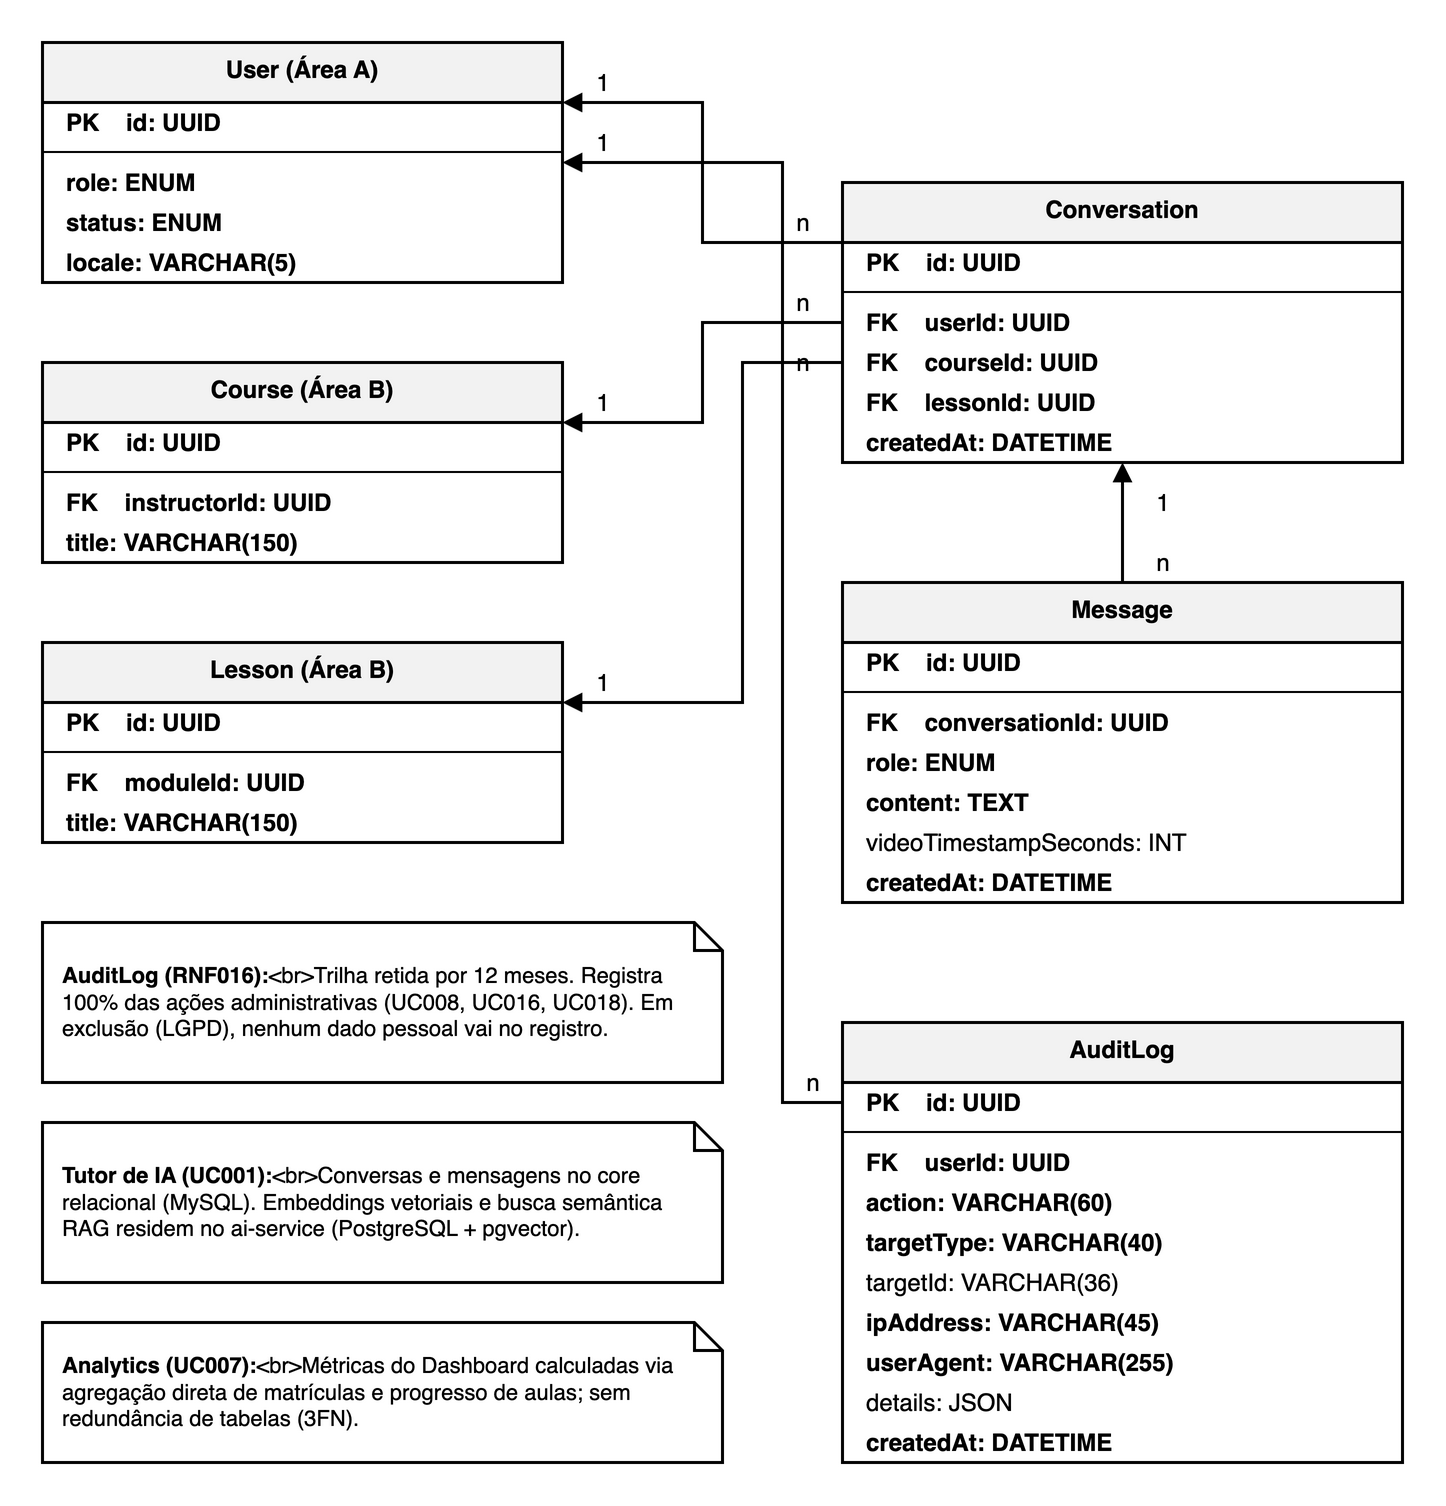
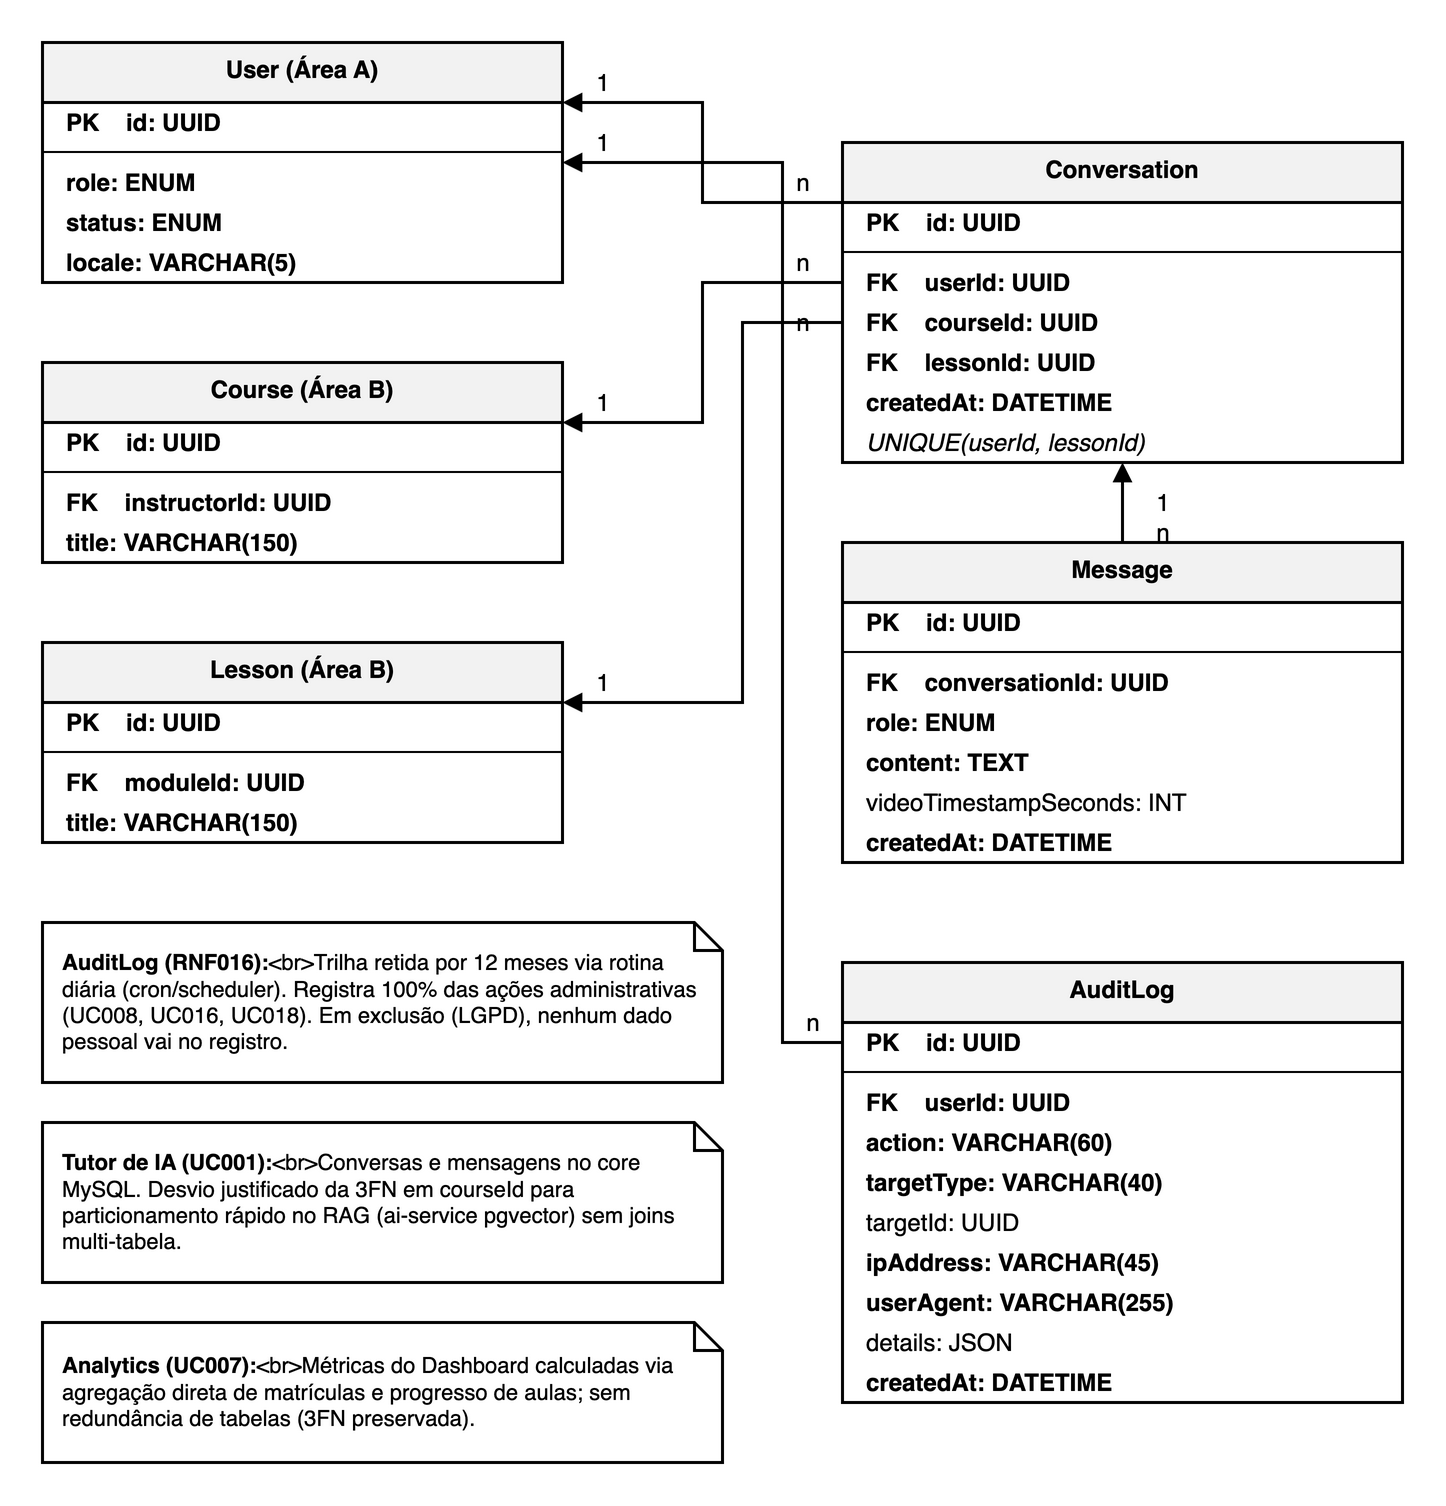
fix(modelo-dados): justify 3FN deviation, add UNIQUE and enum mappings for Area D
Address review findings in item 12 data model:
- Justify the deliberate 3FN deviation of Conversation.courseId for RAG course-partitioning without multi-table joins.
- Add UNIQUE(userId, lessonId) constraint on Conversation.
- Align AuditLog.targetId to UUID across model, diagram and dictionary.
- Document scheduled daily cron purge for 12-month AuditLog retention (RNF016).
- Document English persisted enum values and their pt-BR interface mappings.
- Re-export diagram PNG conforming to ADR-0013.

Refs #94, #122

diff --git a/especificacao/12-modelo-de-dados/area-d.md b/especificacao/12-modelo-de-dados/area-d.md
@@ -9,9 +9,13 @@ Tabelas que sustentam a interação do Aluno com o assistente pedagógico no con
 Decisões do modelo:
 
 - `Conversation` e `Message` estruturam a persistência relacional do histórico do Tutor de IA no banco primário MySQL (ADR-0007). Cada conversa é estritamente vinculada a um Aluno (`userId`), a um curso (`courseId`) e à aula assistida (`lessonId`). A persistência vetorial de trechos e embeddings gerados uma única vez (RNF004) reside no microsserviço físico `ai-service` em banco PostgreSQL 16 com extensão `pgvector` (tabela de chunks particionada por `course_id`), desacoplando o pipeline RAG e o streaming SSE (RNF003) do core relacional.
-- `AuditLog` implementa o registro auditável de 100% das ações administrativas do Administrador e eventos de controle de acesso (RNF016), abrangendo bloqueio e desbloqueio de usuários (UC008), alteração de perfil de acesso (UC008 A4), tentativas de acesso indevido a áreas protegidas (UC016 E2) e exclusão/anonimização de contas (UC018). Os registros possuem política de retenção mínima de 12 meses (RNF016).
-- Normalização e integridade: as tabelas `Conversation` e `Message` estão normalizadas em 3FN, sem dependências transitivas. Na tabela `AuditLog`, o campo `details` utiliza o tipo JSON para armazenar metadados variáveis do evento (como perfil anterior e novo, ou motivo do bloqueio), o que constitui uma exceção deliberada à 1FN justificada pela natureza heterogênea dos eventos de auditoria (análoga a `InstructorProfile.socialLinks` na Área A).
-- Privacidade e LGPD na exclusão (UC018 R-4): na exclusão de conta de usuário, os dados pessoais na tabela `User` são limpos ou anonimizados (`anonymizedAt` preenchido), e o evento registrado em `AuditLog` referencia o identificador (`targetId`) sem manter dados pessoais sensíveis (como nome, CPF ou e-mail) no registro de auditoria ou no campo `details`.
+- `AuditLog` implementa o registro auditável de 100% das ações administrativas do Administrador e eventos de controle de acesso (RNF016), abrangendo bloqueio e desbloqueio de usuários (UC008), alteração de perfil de acesso (UC008 A4), tentativas de acesso indevido a áreas protegidas (UC016 E2) e exclusão/anonimização de contas (UC018). Os registros possuem política de retenção mínima de 12 meses (RNF016). A aplicação operacional da retenção é executada por uma rotina agendada diária (job/scheduler Laravel `audit:purge-expired`, executado via cron à meia-noite), que remove os registros cujo timestamp `createdAt` seja anterior a 12 meses (`createdAt < NOW() - INTERVAL 12 MONTH`), mantendo a integridade histórica sem comprometer o desempenho do banco.
+- Normalização e integridade: a tabela `Message` está normalizada em 3FN. A tabela `Conversation` possui a restrição de unicidade `UNIQUE(userId, lessonId)`, garantindo que cada aluno possua exatamente uma conversa aberta por aula assistida no contexto do Tutor de IA (novas interações são acrescentadas como mensagens dessa mesma conversa). A presença de `courseId` em `Conversation` constitui um desvio deliberado e justificado da 3FN: embora `courseId` derive transitivamente de `lessonId` (`Lesson -> Module -> Course`), sua redundância controlada viabiliza a partição física imediata e a filtragem relacional estrita no pipeline RAG do `ai-service` (`where('course_id', $courseId)`, RNF004 e TDD seção 5.1), isolando categoricamente o conteúdo de diferentes cursos sem sobrecarregar o banco com junções de múltiplas tabelas transacionais a cada mensagem enviada. Na tabela `AuditLog`, o campo `details` utiliza o tipo JSON para armazenar metadados variáveis do evento (como perfil anterior e novo, ou motivo do bloqueio), o que constitui uma exceção deliberada à 1FN justificada pela natureza heterogênea dos eventos de auditoria (análoga a `InstructorProfile.socialLinks` na Área A).
+- Privacidade e LGPD na exclusão (UC018 R-4): na exclusão de conta de usuário, os dados pessoais na tabela `User` são limpos ou anonimizados (`anonymizedAt` preenchido), e o evento registrado em `AuditLog` referencia o identificador (`targetId` como UUID) sem manter dados pessoais sensíveis (como nome, CPF ou e-mail) no registro de auditoria ou no campo `details`.
+- Mapeamento de valores enumerados (persistidos em inglês no banco de dados, com mapeamento para os rótulos de interface em pt-BR):
+  - `Message.role`: `user` (Aluno) e `assistant` (Tutor de IA).
+  - `AuditAction`: `USER_BLOCK` (Bloqueio de usuário), `USER_UNBLOCK` (Desbloqueio de usuário), `ROLE_CHANGE` (Alteração de perfil de acesso), `USER_DELETE` (Exclusão e anonimização de usuário conforme LGPD), `ACCESS_DENIED` (Tentativa de acesso não autorizada a área protegida).
+  - Enums referenciados de `User`: `role` (`student` = Aluno, `instructor` = Instrutor, `admin` = Administrador); `status` (`active` = Ativo, `blocked` = Bloqueado, `deleted` = Excluído); `theme` (`light` = Claro, `dark` = Escuro, `system` = Sistema).
 
 ### Resolução das pendências cruzadas da Área A (Issue #122)
 
@@ -19,15 +23,15 @@ Em conformidade com a regra 8 do `AGENTS.md`, seguem resolvidas as pendências c
 
 1. **Primeiro Administrador (seed):** Atendido por **RF012** e **RNF016**. Como o cadastro público (UC012) restringe a criação de contas aos papéis de Aluno e Instrutor, o primeiro usuário com perfil `admin` (`User.role = 'admin'`) é provisionado diretamente na inicialização do sistema por meio de seed de banco de dados (`DatabaseSeeder`), com credenciais administrativas seguras definidas em variáveis de ambiente. Novos administradores são criados posteriormente por administradores já autenticados por meio da alteração de perfil prevista no UC008 (A4).
 2. **User.status bloqueado:** Atendido por **RF012** e regra R-1 do **UC008**. O UC008 é a autoridade responsável por atualizar `User.status` para o valor `blocked` (bloqueio administrativo) ou restaurar para `active` (desbloqueio). Isso garante compatibilidade total com o fluxo de autenticação do UC005 (E3), onde a tentativa de login de uma conta bloqueada com credenciais corretas resulta na resposta HTTP 403 com o código de erro estável `ACCOUNT_BLOCKED` (`docs/tdd.md` seção 3.1).
-3. **Trilha de auditoria:** Atendido por **RNF016**, **RF012**, **RF018** e regras de negócio do **UC008** (R-4), **UC016** (R-3) e **UC018** (R-4). Foi incorporada a tabela `AuditLog` ao modelo relacional da Área D, registrando autor (`userId`), ação administrativa (`action`), tipo e identificador do alvo (`targetType`, `targetId`), endereço IP (`ipAddress`), cliente (`userAgent`), metadados contextuais (`details` em JSON, resguardando a privacidade conforme a LGPD) e timestamp (`createdAt`), com retenção mínima mandatória de 12 meses.
+3. **Trilha de auditoria:** Atendido por **RNF016**, **RF012**, **RF018** e regras de negócio do **UC008** (R-4), **UC016** (R-3) e **UC018** (R-4). Foi incorporada a tabela `AuditLog` ao modelo relacional da Área D, registrando autor (`userId`), ação administrativa (`action`), tipo e identificador do alvo (`targetType`, `targetId`), endereço IP (`ipAddress`), cliente (`userAgent`), metadados contextuais (`details` em JSON, resguardando a privacidade conforme a LGPD) e timestamp (`createdAt`), com retenção mínima mandatória de 12 meses via rotina programada diária de expurgo.
 4. **Idioma:** Atendido por **RNF013**, **RF009** e **RF010**. O Tutor de IA (UC001) e o Dashboard analítico (UC007) utilizam o campo `User.locale` (persistido na tabela `User`, com padrão `pt-BR`) para determinar o idioma do prompt pedagógico e das respostas geradas pelo agente RAG, bem como para aplicar a formatação localizada de datas (DD/MM/AAAA) e números decimais nos gráficos e relatórios, mantendo conformidade com o padrão multilíngue estabelecido pela Área A para suporte futuro a `en` e `es`.
 
 | ATRIBUTO | CLASSE | DOMÍNIO | TAMANHO | DESCRIÇÃO |
 |---|---|---|---|---|
-| **Tabela: Conversation** | | | | Conversa do Aluno com o Tutor de IA contextualizada na aula (UC001, RF009). |
+| **Tabela: Conversation** | | | | Conversa do Aluno com o Tutor de IA contextualizada na aula (UC001, RF009). Restrição de unicidade: `UNIQUE(userId, lessonId)`. |
 | id | Determinante | UUID | - | Identificador único da conversa. |
 | userId | Simples | UUID | - | FK para `User.id` (Área A), identificando o Aluno dono da conversa. |
-| courseId | Simples | UUID | - | FK para `Course.id` (Área B), curso ao qual a conversa pertence. |
+| courseId | Simples | UUID | - | FK para `Course.id` (Área B), curso ao qual a conversa pertence (desvio justificado da 3FN para isolamento RAG). |
 | lessonId | Simples | UUID | - | FK para `Lesson.id` (Área B), aula específica que fornece o contexto pedagógico. |
 | createdAt | Simples | Data e hora | - | Data e hora de criação da conversa. |
 | **Tabela: Message** | | | | Mensagem individual trocada na conversa com o Tutor de IA (UC001). |
@@ -37,12 +41,12 @@ Em conformidade com a regra 8 do `AGENTS.md`, seguem resolvidas as pendências c
 | content | Simples | Texto longo | TEXT | Conteúdo textual da pergunta ou da resposta gerada pelo Tutor. |
 | videoTimestampSeconds | Simples | Inteiro | - | Segundo exato do vídeo da aula referenciado na resposta (opcional; nulo em perguntas do Aluno). |
 | createdAt | Simples | Data e hora | - | Data e hora de envio ou geração da mensagem. |
-| **Tabela: AuditLog** | | | | Trilha de auditoria das ações administrativas e de segurança (RNF016). Retenção de 12 meses. |
+| **Tabela: AuditLog** | | | | Trilha de auditoria das ações administrativas e de segurança (RNF016). Retenção de 12 meses via rotina diária. |
 | id | Determinante | UUID | - | Identificador único do registro de auditoria. |
 | userId | Simples | UUID | - | FK para `User.id` (Área A), identificando o autor da ação (nulo em tentativas não autenticadas). |
 | action | Simples | Texto | 60 | Identificador estável da ação: `USER_BLOCK`, `USER_UNBLOCK`, `ROLE_CHANGE`, `USER_DELETE`, `ACCESS_DENIED`. |
 | targetType | Simples | Texto | 40 | Tipo da entidade ou recurso alvo da ação auditada (ex.: `User`, `AreaProtegida`). |
-| targetId | Simples | Texto | 36 | Identificador UUID do recurso afetado (opcional; preservado na exclusão LGPD). |
+| targetId | Simples | UUID | - | Identificador UUID do recurso afetado (opcional; preservado na exclusão LGPD). |
 | ipAddress | Simples | Texto | 45 | Endereço IP de origem da requisição (compatível com IPv4 e IPv6). |
 | userAgent | Simples | Texto | 255 | Identificação do cliente HTTP/navegador que originou a requisição. |
 | details | Composto | JSON | - | Metadados contextuais estruturados da operação (ex.: papéis anterior e novo); sem dados pessoais sensíveis (UC018 R-4). |
